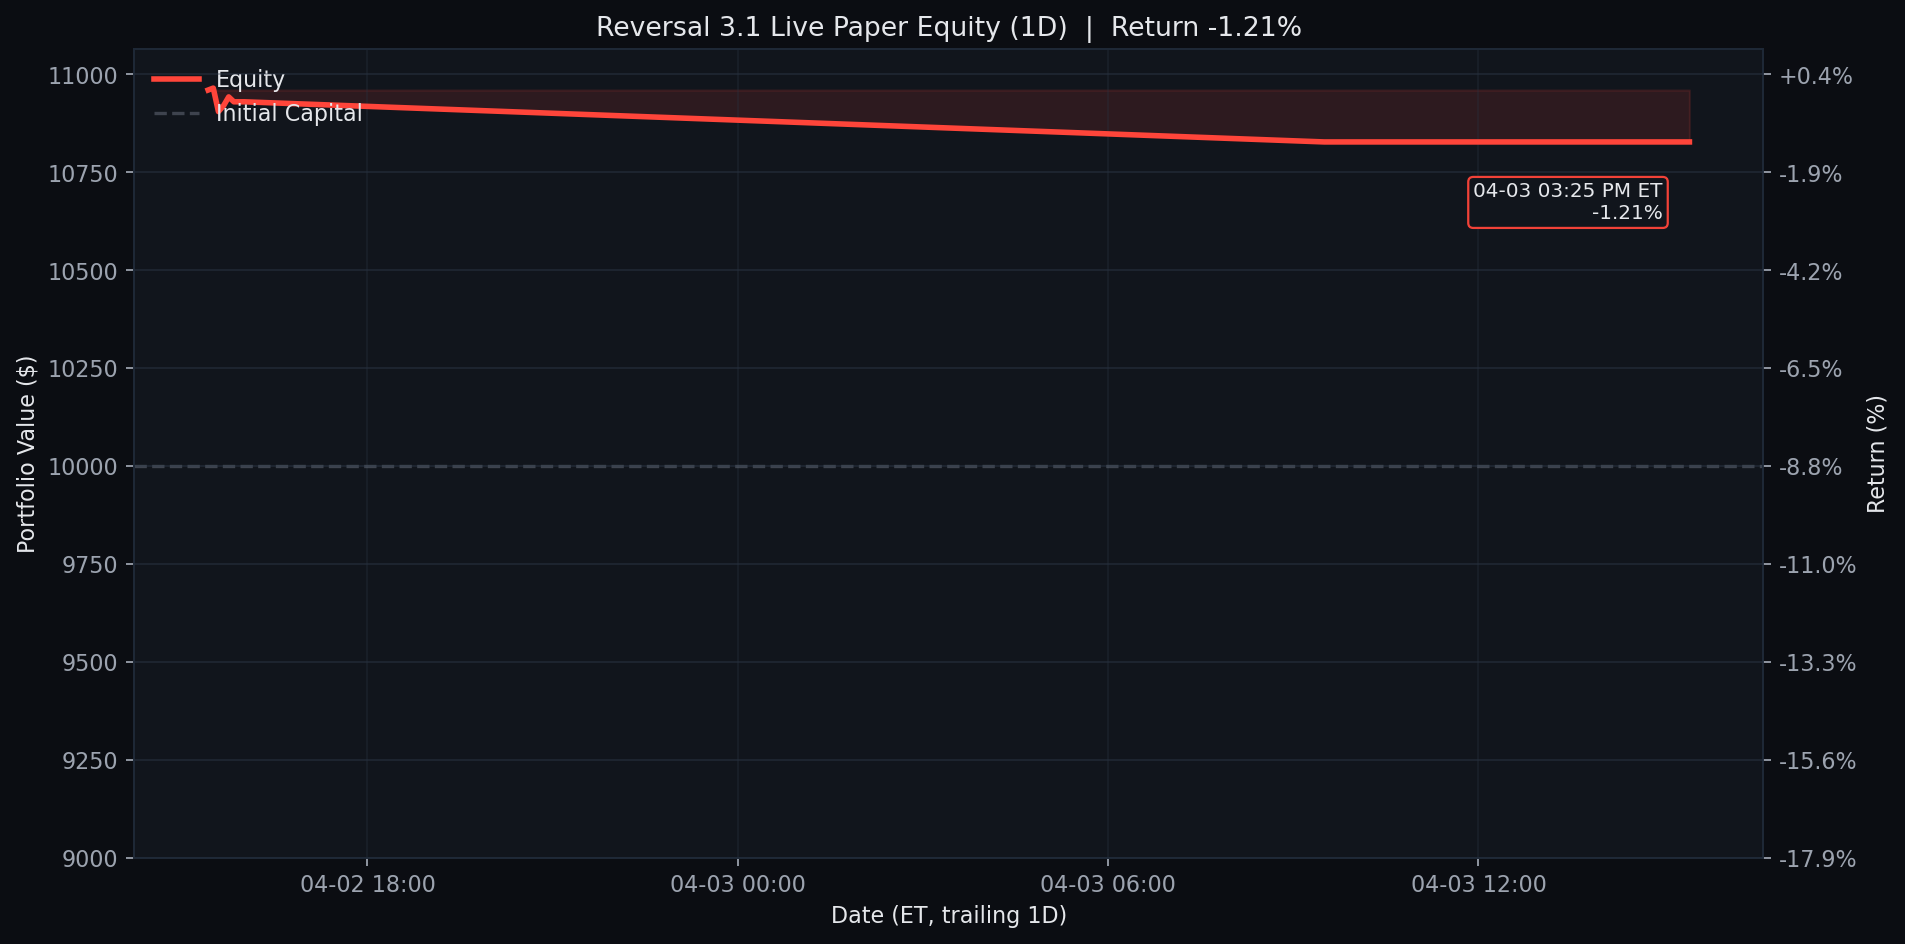
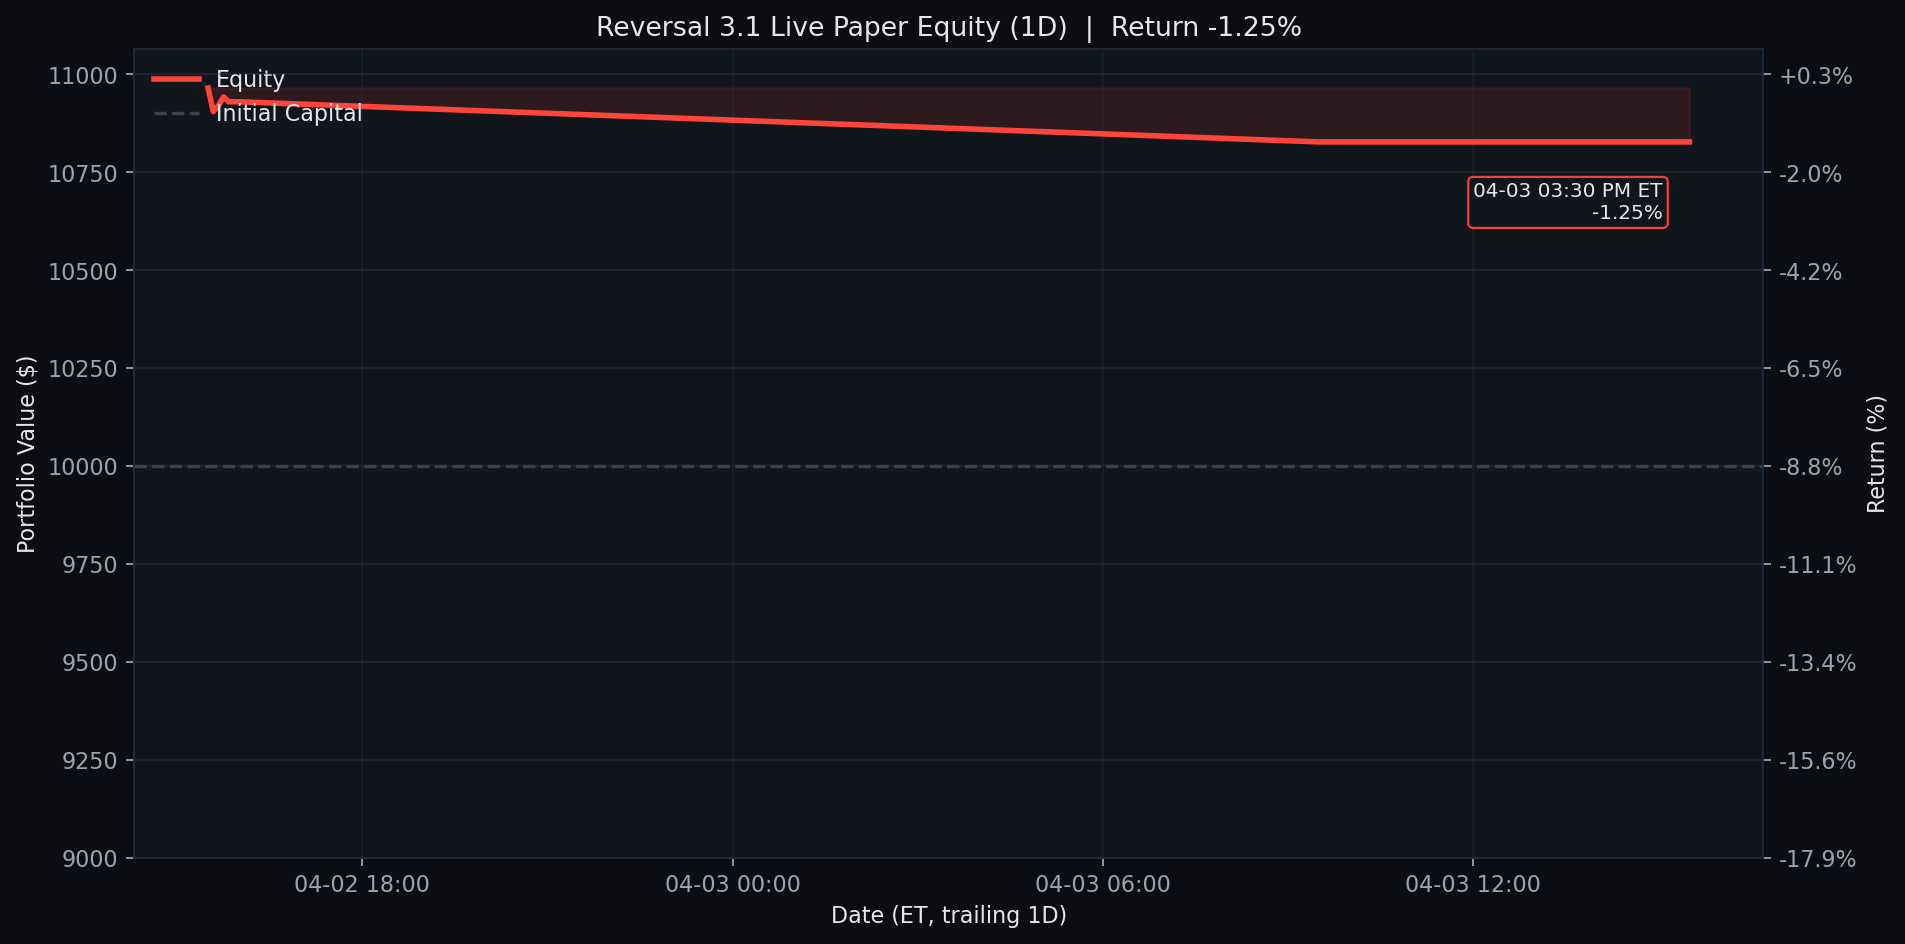
Update Reversal 3.1 live paper test 2026-04-03 15:30 ET

diff --git a/results/reversal_3_1_live/README.md b/results/reversal_3_1_live/README.md
@@ -1,6 +1,6 @@
 # Reversal 3.1 Live Paper Test
 
-Last updated (ET): `2026-04-03 15:25:05 EDT`
+Last updated (ET): `2026-04-03 15:30:05 EDT`
 Last processed slot: `manage_1530`
 
 ## Active Configuration
@@ -59,6 +59,7 @@ ticker  success_rate_%  matched_signals  current_drop_%  target_rebound_$  targe
 
 ```text
                     timestamp_et        slot   event_type                                                                                                                                                                           detail
+2026-04-03T15:30:05.889192-04:00 manage_1530 slot_skipped                                                                                                                                                  {"reason": "already_processed"}
 2026-04-03T15:25:05.896513-04:00 manage_1530 slot_skipped                                                                                                                                                  {"reason": "already_processed"}
 2026-04-03T15:10:05.893314-04:00  entry_1500 slot_skipped                                                                                                                                                  {"reason": "already_processed"}
 2026-04-03T15:05:00.923964-04:00  entry_1500 slot_skipped                                                                                                                                                  {"reason": "already_processed"}
@@ -68,7 +69,6 @@ ticker  success_rate_%  matched_signals  current_drop_%  target_rebound_$  targe
 2026-04-03T14:40:05.887311-04:00 manage_1430 slot_skipped                                                                                                                                                  {"reason": "already_processed"}
 2026-04-03T14:35:05.880366-04:00 manage_1430 slot_skipped                                                                                                                                                  {"reason": "already_processed"}
 2026-04-03T14:30:00.896990-04:00 manage_1430 slot_skipped                                                                                                                                                  {"reason": "already_processed"}
-2026-04-03T14:25:01.014165-04:00 manage_1430 slot_skipped                                                                                                                                                  {"reason": "already_processed"}
 ```
 
 ## Equity Curves

diff --git a/README.md b/README.md
@@ -3,7 +3,7 @@
 <!-- reversal-3.1-live:start -->
 ## Reversal 3.1 Live Paper Test
 
-- Last updated (ET): `2026-04-03 15:25:05 EDT`
+- Last updated (ET): `2026-04-03 15:30:05 EDT`
 - Equity: `$10,827.50` | Realized: `$845.00` | Unrealized: `$-17.50` | Open positions: `2`
 - Today closed trades: `0`
 - Current slot: `manage_1530`
